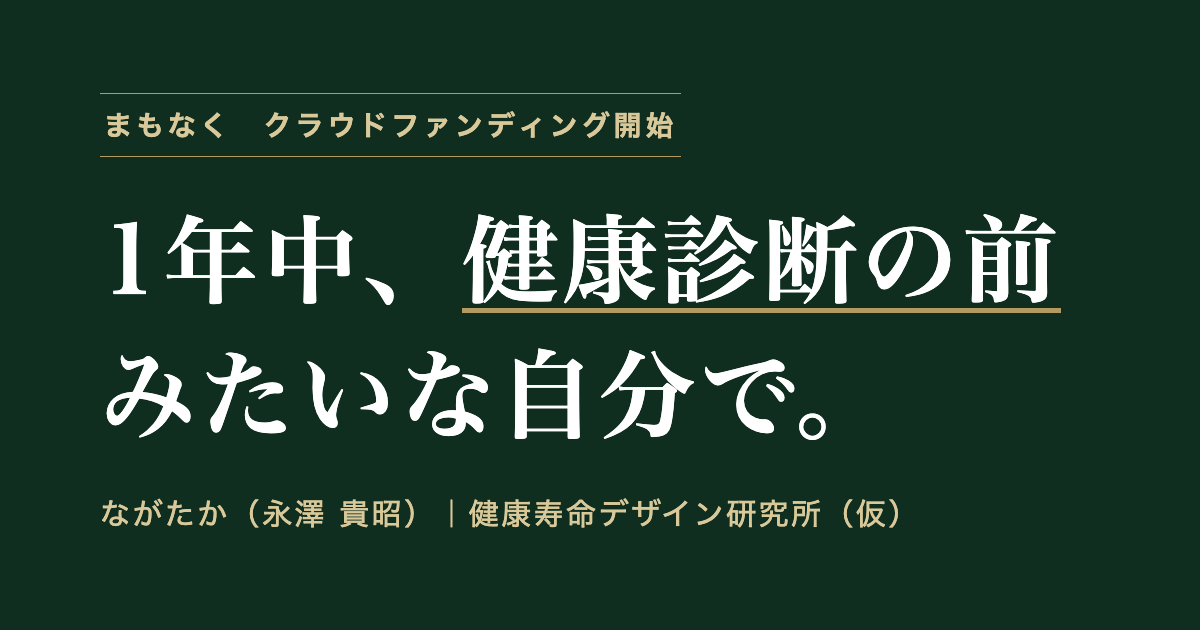
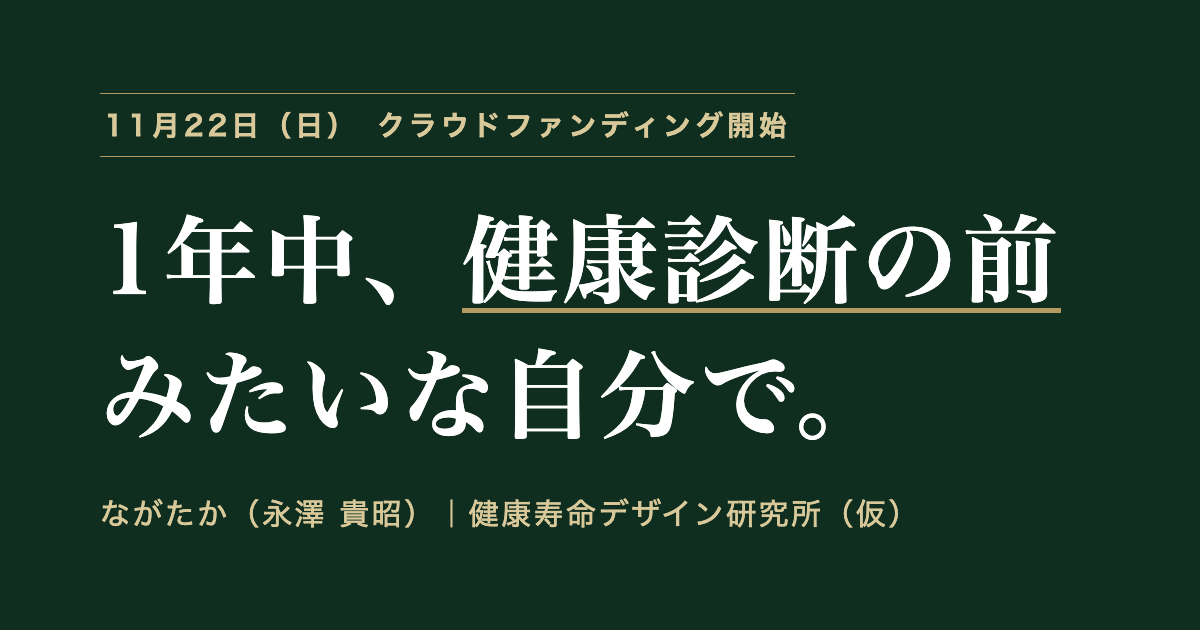
公開日を11/22〜12/20で確定（LP・会社向け・日程ページ）

Changed region(s): [[0.0925, 0.181, 0.6783, 0.2413]]

diff --git a/lp/index.html b/lp/index.html
@@ -2,12 +2,12 @@
 <html lang="ja"><head><meta charset="UTF-8"><meta name="viewport" content="width=device-width,initial-scale=1,viewport-fit=cover">
 <title>1年中、健康診断の前みたいな自分で。｜ながたか</title>
 <meta name="robots" content="noindex">
-<meta name="description" content="頑張らなくても、気づいたら身体にいいことをしている。そんな毎日をつくる会社を立ち上げます。まもなく、クラウドファンディングを始めます。">
+<meta name="description" content="頑張らなくても、気づいたら身体にいいことをしている。そんな毎日をつくる会社を立ち上げます。11月22日（日）、クラウドファンディング開始。">
 <meta property="og:title" content="1年中、健康診断の前みたいな自分で。">
-<meta property="og:description" content="頑張らなくても、気づいたら身体にいいことをしている。まもなく、クラウドファンディングを始めます。">
+<meta property="og:description" content="頑張らなくても、気づいたら身体にいいことをしている。11月22日（日）、クラウドファンディング開始。">
 <meta property="og:type" content="website">
 <meta property="og:url" content="https://mm738966m-boop.github.io/nagataka-share/lp/">
-<meta property="og:image" content="https://mm738966m-boop.github.io/nagataka-share/lp/og.png?v=3">
+<meta property="og:image" content="https://mm738966m-boop.github.io/nagataka-share/lp/og.png?v=4">
 <meta name="twitter:card" content="summary_large_image">
 <link rel="preconnect" href="https://fonts.googleapis.com"><link rel="preconnect" href="https://fonts.gstatic.com" crossorigin>
 <link href="https://fonts.googleapis.com/css2?family=Shippori+Mincho:wght@600;700&family=Noto+Sans+JP:wght@500;700&display=swap" rel="stylesheet">
@@ -178,7 +178,7 @@ footer{text-align:center;color:var(--muted);font-size:14px;padding:30px 20px 10p
 
 <header class="hero"><div class="wrap">
   <figure class="heroimg"><img src="img/hero.jpg" alt="緑の中に立つながたか" width="1400" height="931" fetchpriority="high"></figure>
-  <span class="date">まもなく、クラウドファンディング開始</span>
+  <span class="date">11月22日（日）クラウドファンディング開始</span>
   <h1>1年中、<br><em>健康診断の前</em><br>みたいな自分で。</h1>
   <p class="sub">頑張らなくても、<br>気づいたら身体にいいことをしている。<br>そんな毎日をつくる会社を、<br>立ち上げます。</p>
   <div class="who">
@@ -186,7 +186,7 @@ footer{text-align:center;color:var(--muted);font-size:14px;padding:30px 20px 10p
     <div><b>ながたか（永澤 貴昭）</b><span>大学教員・博士（学術）<br>専門はスポーツ栄養学</span></div>
   </div>
   <a class="btn" href="https://utage-system.com/line/open/qBddu1fxp677?ref=lp"><svg viewBox="0 0 32 32" aria-hidden="true"><ellipse cx="16" cy="14.5" rx="13.5" ry="10.8" fill="#fff"/><path d="M10.5 23.2l-1.2 5.6 7-4.6z" fill="#fff"/><text x="16" y="17.4" text-anchor="middle" font-family="Arial,Helvetica,sans-serif" font-size="7.6" font-weight="900" fill="#06C755" letter-spacing=".2">LINE</text></svg><span>LINEで開始のお知らせを受け取る<small>登録は無料・30秒</small></span></a>
-  <p class="cap">始まる日が決まったら、LINEでいちばんにお知らせします。<br>登録は無料です。支援のお申し込みではありません。</p>
+  <p class="cap">11月22日の朝、開始のお知らせを1通お送りします。<br>登録は無料です。支援のお申し込みではありません。</p>
   <a class="scrollcue" href="#mirai">つづきを読む</a>
 </div></header>
 
@@ -300,7 +300,7 @@ footer{text-align:center;color:var(--muted);font-size:14px;padding:30px 20px 10p
 <section class="cf" id="cf"><div class="wrap">
   <p class="chap rv"><i>06</i>クラウドファンディング</p>
   <h2 class="rv">最初の一歩を、一緒に。</h2>
-  <div class="when rv"><small>CAMPFIREにて</small><b><span>まもなく</span> <span>スタート</span></b><span>日にちは、LINEでお知らせします</span></div>
+  <div class="when rv"><small>CAMPFIREにて</small><b><span>11/22（日）</span> <span>→ 12/20（日）</span></b><span>29日間</span></div>
 
   <h3 class="rv">こんなリターンを準備しています</h3>
   <div class="ex rv">
@@ -312,7 +312,7 @@ footer{text-align:center;color:var(--muted);font-size:14px;padding:30px 20px 10p
 
   <h3 class="rv">参加のしかた</h3>
   <ol class="steps rv">
-    <li><div>LINEに登録する<span>始まる日に、お知らせが届きます</span></div></li>
+    <li><div>LINEに登録する<span>11月22日の朝、開始のお知らせが届きます</span></div></li>
     <li><div>ページをのぞいてみる<span>気になるコースがあるか、見てみてください</span></div></li>
     <li><div>よければ、まわりに話す<span>ひとこと紹介してもらえるだけで、大きな力になります</span></div></li>
   </ol>
@@ -323,7 +323,7 @@ footer{text-align:center;color:var(--muted);font-size:14px;padding:30px 20px 10p
   <p class="chap rv"><i>07</i>よくある質問</p>
   <h2 class="rv">登録の前に。</h2>
   <div class="rv">
-    <details><summary>LINEに登録すると、何が届きますか？</summary><p>まず、ごあいさつの声が届きます。<br>そのあとは、始まる日のお知らせと、期間中の大事なお知らせだけです。</p></details>
+    <details><summary>LINEに登録すると、何が届きますか？</summary><p>まず、ごあいさつの声が届きます。<br>そのあとは、11月22日の開始のお知らせと、期間中の大事なお知らせだけです。</p></details>
     <details><summary>登録だけでも大丈夫ですか？</summary><p>もちろんです。<br>読んでもらえるだけで励みになります。</p></details>
     <details><summary>あとからやめられますか？</summary><p>いつでもやめられます。<br>LINEの画面でブロックするだけです。</p></details>
     <details><summary>クラウドファンディングは初めてです。</summary><p>CAMPFIREに無料の会員登録をして、コースを選ぶだけです。<br>手順は、開始のお知らせでご案内します。</p></details>
@@ -336,7 +336,7 @@ footer{text-align:center;color:var(--muted);font-size:14px;padding:30px 20px 10p
   <figure class="photo rv"><img src="img/smile.jpg" alt="笑顔のながたか" loading="lazy" width="931" height="1400"></figure>
   <p class="chap rv">お知らせ</p>
   <h2 class="rv">始まったら、<br>いちばんにお知らせします。</h2>
-  <p class="rv">公式LINEに登録しておくと、<br>始まる日にお知らせが届きます。</p>
+  <p class="rv">公式LINEに登録しておくと、<br>11月22日の朝に1通届きます。</p>
   <a class="btn rv" href="https://utage-system.com/line/open/qBddu1fxp677?ref=lp"><svg viewBox="0 0 32 32" aria-hidden="true"><use href="#lineicon"/></svg><span>LINEで開始のお知らせを受け取る<small>登録は無料・30秒</small></span></a>
 </div></section>
 

diff --git a/lp/company/index.html b/lp/company/index.html
@@ -110,7 +110,7 @@ footer{text-align:center;color:var(--muted);font-size:14px;padding:26px 20px 0;l
     <li><div>内容と日程をすり合わせ<span>会社に合わせたテーマを、一緒に決めます</span></div></li>
     <li><div>セミナーの実施<span>オンラインでも、会社にうかがっても</span></div></li>
   </ol>
-  <div class="note" style="margin-top:20px">いま、会社を立ち上げるためのクラウドファンディングを準備しています。<br>このセミナーは、そのリターン（お礼の品）としてもご用意します。<br>始まる日は、LINEでお知らせします。</div>
+  <div class="note" style="margin-top:20px">いま、会社を立ち上げるためのクラウドファンディングを準備しています。<br>このセミナーは、そのリターン（お礼の品）としてもご用意します。<br>11月22日（日）から12月20日（日）までの予定です。</div>
 </div></section>
 
 <section class="cta" style="border-bottom:0"><div class="wrap">

diff --git a/schedule/index.html b/schedule/index.html
@@ -85,15 +85,15 @@ p,li,dd,b,span,summary{word-break:auto-phrase}
 </style></head><body><div class="page">
 
 <header>
-  <div class="eyebrow">2026.10.27 ／ 森川より</div>
+  <div class="eyebrow">2026.11.02 更新 ／ 森川より</div>
   <h1>公開日の決め直し</h1>
   <p class="lead">11/1の公開は、ずらしましょう。<br>ながたかさんが動ける時期から逆算して、2つの案を出しました。</p>
 </header>
 
 <div class="ask1">
-  <span class="t">決めてほしいのは1つだけ</span>
-  <p class="b">公開日を、AとBのどちらにするか</p>
-  <p class="s">決まれば、ページ・LINE・告知の日付は森川と尾道さんで合わせます。</p>
+  <span class="t">決まりました</span>
+  <p class="b">A　11/22（日）〜 12/20（日）で進めます</p>
+  <p class="s">LP・会社向けページ・公式LINEの日付は、11/22に合わせて直しました。</p>
 </div>
 
 <section>
